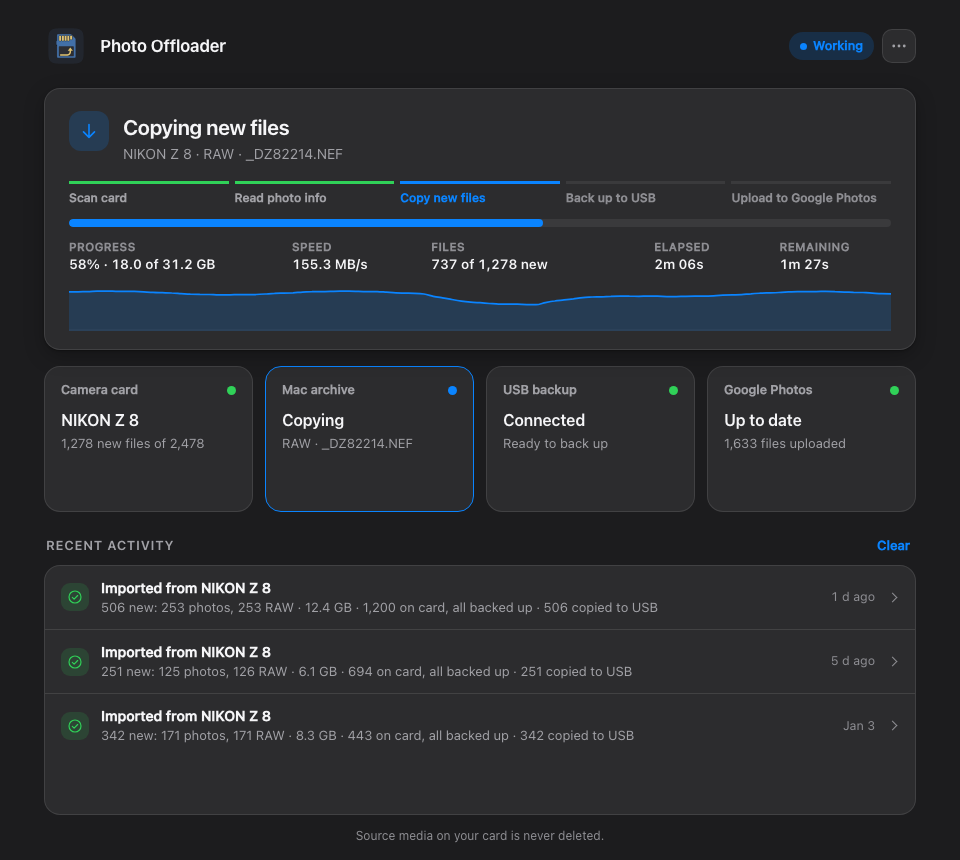
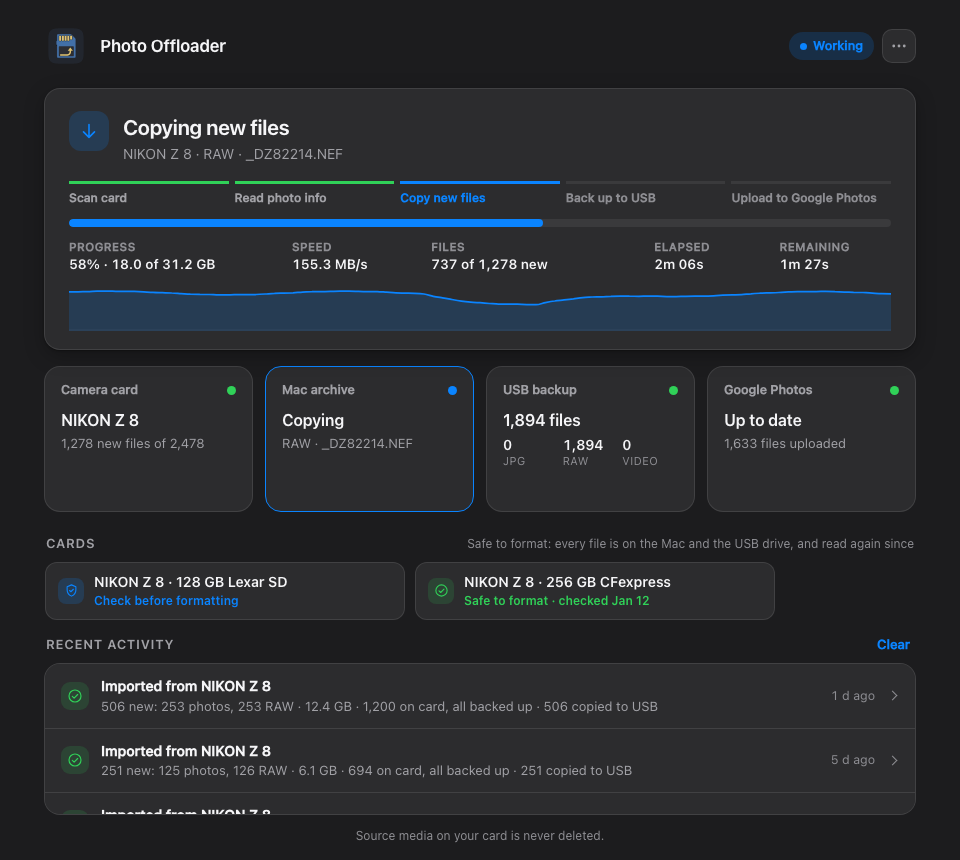
Show the Cards row in the README's screenshot
The screenshot was taken before the Cards row existed, so the main new
feature of this release wasn't in the picture. The README scenario now
has two cards from its earlier imports, one safe to format and one to
check before formatting, dated by the scenario's own clock.

With the row taking room, opening a report scrolls the history list to
show it, so the push-down test measures the runs from each other, not
from the window.

diff --git a/tests/browser/harness.py b/tests/browser/harness.py
@@ -241,6 +241,7 @@ def _readme_import(s: Sandbox) -> None:
     _past_import(s, days_ago=12, seconds=58, new_files=342, card_files=443)
     _past_import(s, days_ago=5, seconds=41, new_files=251, card_files=694)
     _past_import(s, days_ago=1, seconds=83, new_files=506, card_files=README_SAVED_BEFORE)
+    _readme_cards(s)
     with catalog.catalog_db() as db:
         db.executemany(
             "INSERT INTO google_photos_uploads (path, size, mtime_ns, inode, uploaded_at, remote,"
@@ -471,6 +472,23 @@ def _cards(s: Sandbox) -> None:
         {(side, f"SD2-UUID-{index}") for index in range(372) for side in ("mac", "usb")}, checked
     )
     s.record(details={"new": {"JPG": 9, "RAW": 9}, "new_bytes": 412 * MB, "card_id": "SD-UUID"})
+
+
+def _readme_cards(s: Sandbox) -> None:
+    """Two cards from earlier imports, for the README: one read again since and safe to format,
+    one backed up but not read again yet."""
+
+    def iso(days_ago: float) -> str:
+        return datetime.utcfromtimestamp(s.now - days_ago * 86400).strftime("%Y-%m-%dT%H:%M:%SZ")
+
+    _seen_card(s, "CF-UUID", CF_CARD, 694, 694, iso(5))
+    _seen_card(s, "SD2-UUID", SD128_CARD, 1200, 1200, iso(1))
+    backed_up = {"CF-UUID": s.now - 5 * 86400, "SD2-UUID": s.now - 86400}
+    config.CARD_SAFETY_PATH.write_text(json.dumps(backed_up))
+    checked = s.now - 3 * 86400
+    verify_report.remember_rereads(
+        {(side, f"CF-UUID-{index}") for index in range(694) for side in ("mac", "usb")}, checked
+    )
 
 
 def _card_inserted_not_safe(s: Sandbox) -> None:

diff --git a/tests/browser/test_dashboard_page.py b/tests/browser/test_dashboard_page.py
@@ -1067,19 +1067,20 @@ class TestReports(PageTestCase):
         self.assertEqual(self.rows().nth(0).get_attribute("aria-expanded"), "false")
         self.assertEqual(self.page.locator("dialog[open]").count(), 0)
 
-    def row_top(self, index):
-        return self.rows().nth(index).bounding_box()["y"]
+    def row_gap(self):
+        """How far below the first run the second starts. Opening a report may scroll the list
+        to show it, so the runs are measured from each other, not from the window."""
+        return self.rows().nth(1).bounding_box()["y"] - self.rows().nth(0).bounding_box()["y"]
 
     def test_an_open_report_pushes_the_runs_below_it_down_until_it_closes(self):
         self.show("readme_import", **NATIVE_WINDOW)
-        above, below = self.row_top(0), self.row_top(1)
+        closed = self.row_gap()
         self.rows().first.click()
         height = self.page.locator(".run-report").bounding_box()["height"]
-        self.assertEqual(self.row_top(0), above)
-        self.assertAlmostEqual(self.row_top(1), below + height, delta=1)
+        self.assertAlmostEqual(self.row_gap(), closed + height, delta=1)
         self.rows().first.click()
         expect(self.page.locator(".run-report")).to_have_count(0)
-        self.assertEqual(self.row_top(1), below)
+        self.assertEqual(self.row_gap(), closed)
 
     def _hold_report_folds(self):
         """Pause each report fold as it starts, so a test can seek it without racing the clock.
